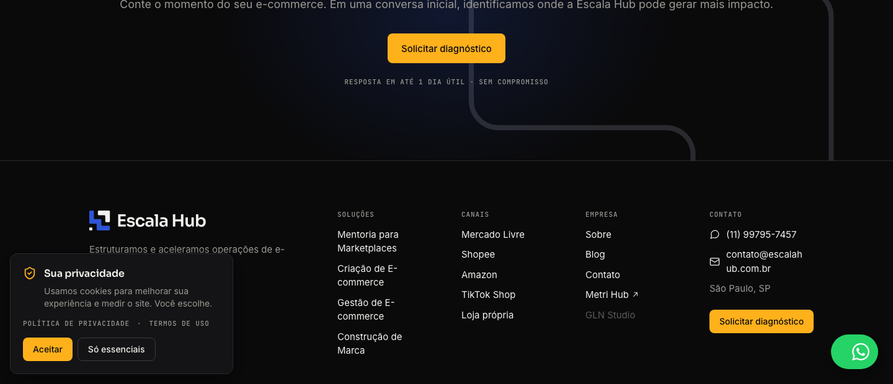
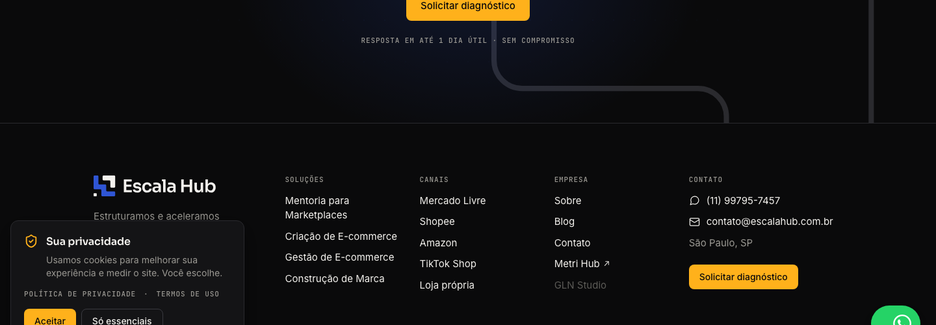
docs: lançamento da fase 0 e configuração de DNS

diff --git a/docs/05-decisoes.md b/docs/05-decisoes.md
@@ -73,3 +73,7 @@ Formato: data · decisão · status (proposta / aprovada / revertida) · motivo.
 | 2026-09-14 | App Next.js vive na raiz do repo (não em `web/`), para a integração Git da Vercel não precisar de root directory | aprovada | Simplicidade |
 | 2026-09-14 | Deploy de produção na Vercel: projeto `escala-hub-website`, Git conectado (push em `main` = deploy) | marco | https://escala-hub-website-myabf3c3n-edgalan-ehs-projects.vercel.app |
 | 2026-09-14 | Programa de parceiros com "20%" e "48h" publicado como veio do protótipo; confirmar números | pendente Eduardo | Auditoria item 7 |
+| 2026-09-14 | **LANÇAMENTO fase 0:** escalahub.com.br no ar na Vercel. DNS no Cloudflare (A 76.76.21.21, CNAME www → cname.vercel-dns.com, ambos DNS only). MX do Google e TXT do Search Console preservados | marco | Framer desativado |
+| 2026-09-14 | Barra do topo: fundo ink com ponto âmbar e "Site em construção", sem botão fechar | aprovada | Protótipo |
+| 2026-09-14 | Sem badges no hero nem na coluna da marca do footer; "Contato" no lugar de "Calculadora" na coluna Empresa; sem "Feito em São Paulo" | aprovada | Protótipo |
+| 2026-09-14 | Diagrama da hero é estático (sem rotação automática) | aprovada | Etiquetas saíam tortas; protótipo é estático |

diff --git a/docs/14-plano-dev.md b/docs/14-plano-dev.md
@@ -23,7 +23,10 @@ Páginas internas, calculadora, blog real, Resend, pixels, Payload.
 ## Status (2026-09-14)
 Itens 1–8 feitos. Produção no ar na URL da Vercel. Faltam: domínio (DNS), Search Console, revisão do Eduardo.
 
-## Trocar o domínio (quando o Eduardo autorizar)
-1. Vercel: `vercel domains add escalahub.com.br` (ou painel → Domains).
-2. registro.br → DNS: apagar registros do Framer; criar `A @ 76.76.21.21` e `CNAME www cname.vercel-dns.com`.
-3. Propagação 1–24h. Depois: Search Console → adicionar propriedade, enviar sitemap `https://escalahub.com.br/sitemap.xml`, pedir reindexação da Home.
+## Domínio — FEITO em 2026-09-14
+DNS fica no **Cloudflare** (não no registro.br). Registros em produção:
+`A @ 76.76.21.21` (DNS only) · `CNAME www cname.vercel-dns.com` (DNS only) · 5 MX do Google Workspace · 1 TXT google-site-verification.
+Certificado emitido pela Vercel. Root e www respondem 200 em HTTPS.
+
+## Falta
+- Search Console: enviar `https://escalahub.com.br/sitemap.xml` e pedir reindexação da Home (a verificação por TXT já existe).

diff --git a/docs/README.md b/docs/README.md
@@ -28,5 +28,5 @@ Documentação viva do negócio e do produto. Atualizada a cada decisão relevan
 2. **Conteúdo** (2026-09-10 a 13) — posicionamento v3, copy Home, design system, logo v4. ✅
 3. **Protótipo** (2026-09-13 a 14) — Home + Em breve no Claude Design, 27 prompts. ✅ ← aguardando export HTML
 4. **Auditoria + Código** (2026-09-14) — auditoria em 15; Next.js na raiz do repo; deploy Vercel Hobby. ✅
-5. **Lançamento fase 0** — DNS registro.br → Vercel; Search Console. ← próxima
+5. **Lançamento fase 0** (2026-09-14) — escalahub.com.br no ar. ✅ Falta enviar o sitemap no Search Console.
 6. **Fase 2** — páginas de Soluções, Canais, Ferramentas (calculadora), Blog, Sobre; Resend.
